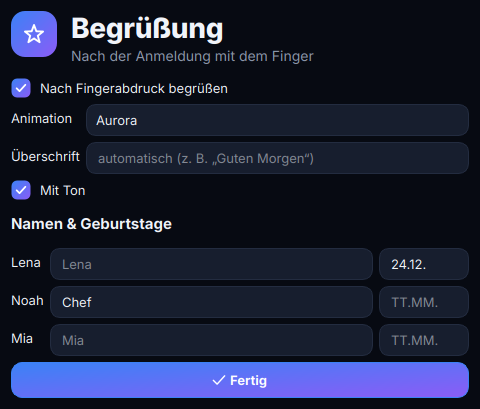
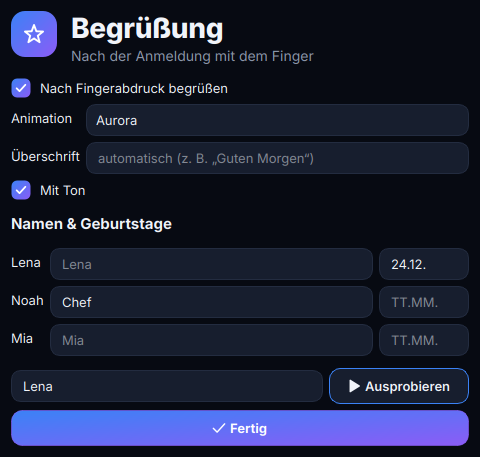
[release] 0.70.0: Ausprobieren im Fenster Begrüßung wieder da
Claude-Session: https://claude.ai/code/session_0112hkB5sXPirJfFc6RfbKoD

diff --git a/alupc/ui/welcome_settings.py b/alupc/ui/welcome_settings.py
@@ -1,5 +1,5 @@
 """Fenster „Begrüßung“ (Seite Fingerabdruck): Animation nach der Anmeldung mit dem Finger, eigene Namen und
-Geburtstage je Person."""
+Geburtstage je Person – und „Ausprobieren“ ohne Sensor."""
 
 from __future__ import annotations
 
@@ -66,6 +66,18 @@ class WelcomeSettings(QDialog):
             names_form.addRow(person, row)
         lay.addLayout(names_form)
 
+        # Ausprobieren (ohne Sensor): Animation mit gewähltem Namen jetzt zeigen
+        lay.addSpacing(6)
+        row = QHBoxLayout()
+        self.try_name = QComboBox()
+        self.try_name.setEditable(True)
+        self.try_name.addItems(persons or ["Noah"])
+        self.try_name.setToolTip("Name zum Ausprobieren")
+        row.addWidget(self.try_name, 1)
+        self.try_button = button("Ausprobieren", "play")
+        self.try_button.clicked.connect(self.try_it)
+        row.addWidget(self.try_button)
+        lay.addLayout(row)
         close = button("Fertig", "check", primary=True)
         close.clicked.connect(self.accept)
         lay.addWidget(close)
@@ -94,3 +106,11 @@ class WelcomeSettings(QDialog):
             "birthdays": {p: v for p, v in birthdays.items() if v},
         }
         self.controller.config.save()
+
+    def try_it(self) -> None:
+        self.save()
+        from ..welcome import display_name
+
+        typed = self.try_name.currentText().strip()
+        person = typed if typed in self.name_edits else ""
+        self.controller.show_welcome(display_name(self.controller.config, typed), person)

diff --git a/tests/test_gui.py b/tests/test_gui.py
@@ -3517,8 +3517,8 @@ def test_welcome_watcher_and_show(env, monkeypatch):
 
 
 def test_welcome_settings(env, monkeypatch):
-    """Begrüßung: nicht mehr geheim (Seite Fingerabdruck → Begrüßung), ohne „Ausprobieren“; speichert Stil, Text,
-    eigene Namen und Geburtstage."""
+    """Begrüßung: nicht geheim (Seite Fingerabdruck → Begrüßung); speichert Stil, Text, eigene Namen und
+    Geburtstage; „Ausprobieren“ zeigt die Animation ohne Sensor."""
     from alupc.ui import fingerprint_page, welcome_settings
 
     controller, window, _ = env
@@ -3530,11 +3530,16 @@ def test_welcome_settings(env, monkeypatch):
     assert "Aurora" in page.welcome_label.text()
     page.open_welcome()
     menu = opened[0]
-    assert menu.windowTitle() == "Begrüßung" and not hasattr(menu, "try_button") and not hasattr(menu, "try_it")
+    assert menu.windowTitle() == "Begrüßung"
     menu.style.setCurrentIndex(menu.style.findData("scan"))
     menu.name_edits["Noah"].setText("Chef")
     menu.birthday_edits["Lena"].setText("24.12.")
     menu.text.setText("Servus")
+    shown = []
+    monkeypatch.setattr(controller, "show_welcome", lambda name, person="", style=None: shown.append((name, person)))
+    menu.try_name.setCurrentText("Noah")
+    menu.try_it()
+    assert shown == [("Chef", "Noah")]
     menu.accept()
     cfg = controller.config["welcome"]
     assert cfg["style"] == "scan" and cfg["names"] == {"Noah": "Chef"} and cfg["text"] == "Servus"

diff --git a/alupc/__init__.py b/alupc/__init__.py
@@ -1,4 +1,4 @@
 """AluPC – Steuerprogramm für einen zweiten Monitor (Kubuntu und Windows 11)."""
 
-__version__ = "0.69.0"
+__version__ = "0.70.0"
 APP_NAME = "AluPC"

diff --git a/packaging/RELEASE_NOTES.md b/packaging/RELEASE_NOTES.md
@@ -8,7 +8,11 @@
 | **Kubuntu / Ubuntu** (22.04, 24.04 und neuer) | `alupc_…_amd64.deb` | `sudo apt install ./alupc_…_amd64.deb` – danach im Startmenü |
 | Linux (x86_64) | `AluPC-linux-x86_64-….tar.gz` | ohne Installation: entpacken, `AluPC/AluPC` starten |
 
-### Neu in dieser Version (0.69.0)
+### Neu in dieser Version (0.70.0)
+- **„Ausprobieren“ ist zurück** im Fenster *Begrüßung* (Seite Fingerabdruck): Name wählen oder eintippen →
+  Animation sofort sehen, auch ohne Fingerabdrucksensor.
+
+### Neu in Version 0.69.0
 - **Begrüßung ist nicht mehr geheim:** Aus dem „geheimen Menü“ wird das Fenster **Begrüßung** – zu finden auf der
   Seite *Fingerabdruck* → „Begrüßung“ → *Einstellen …*. Der Klick-Trick auf die Versionsnummer und
   Strg+Alt+Umschalt+G sind weg.

diff --git a/README.md b/README.md
@@ -115,7 +115,7 @@ Außerdem:
   | ![Aurora](docs/willkommen-aurora.gif) | ![Konfetti](docs/willkommen-konfetti.gif) | ![Scan](docs/willkommen-scan.gif) |
 
   **Einstellen:** Seite *Fingerabdruck* → *Begrüßung* → an/aus, Animation, eigene Überschrift, Ton,
-  **eigene Namen je Person** (z. B. „Noah“ → „Chef“) und **Geburtstage**.
+  **eigene Namen je Person** (z. B. „Noah“ → „Chef“), **Geburtstage** und **Ausprobieren** (ohne Sensor).
 
   <img src="docs/begruessung.png" alt="Begrüßung einstellen" width="420">
 
